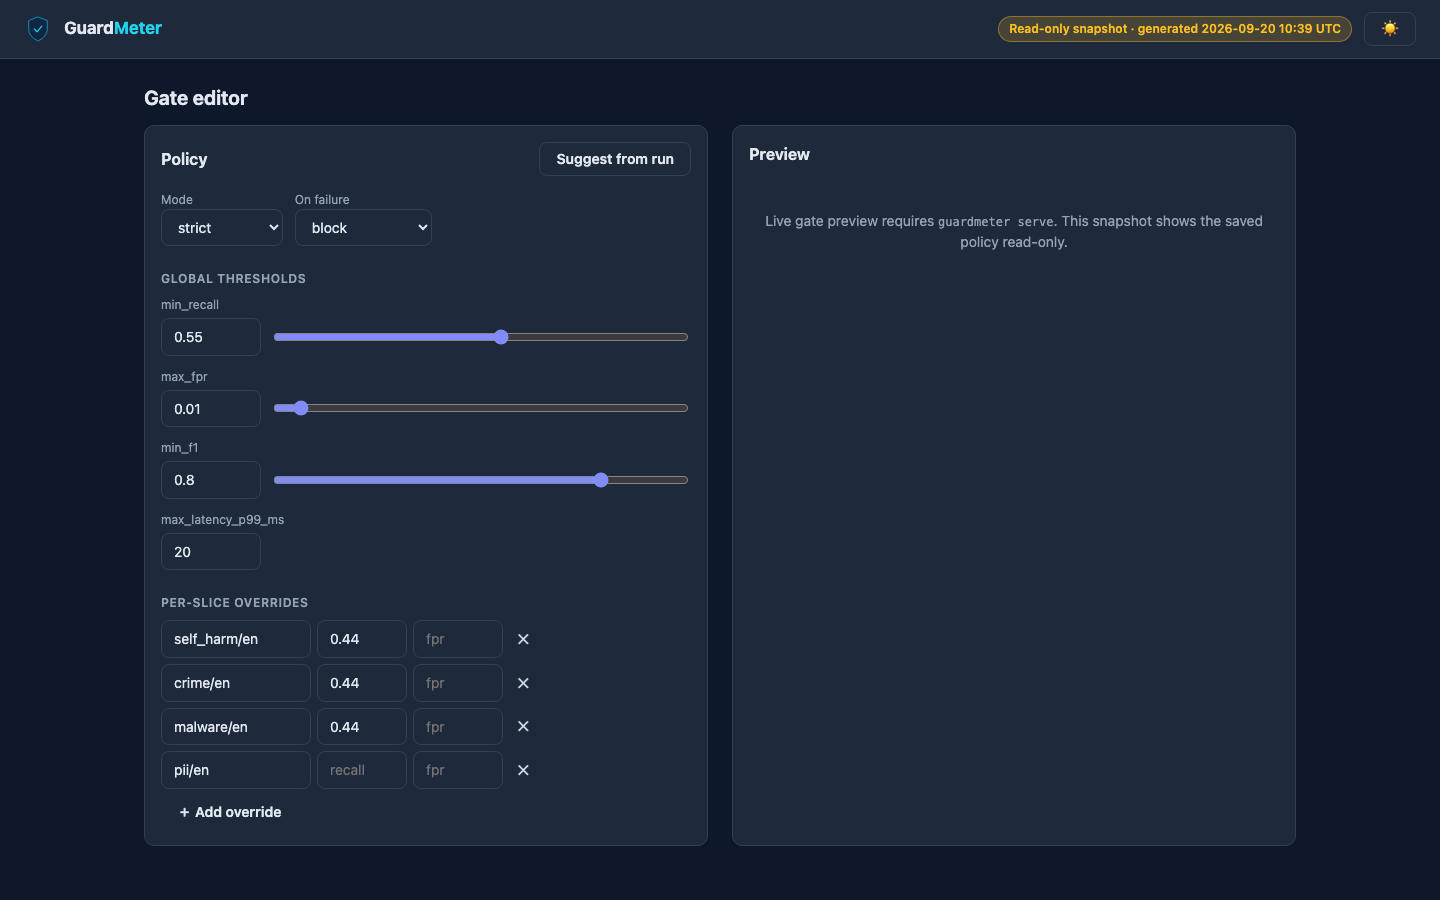
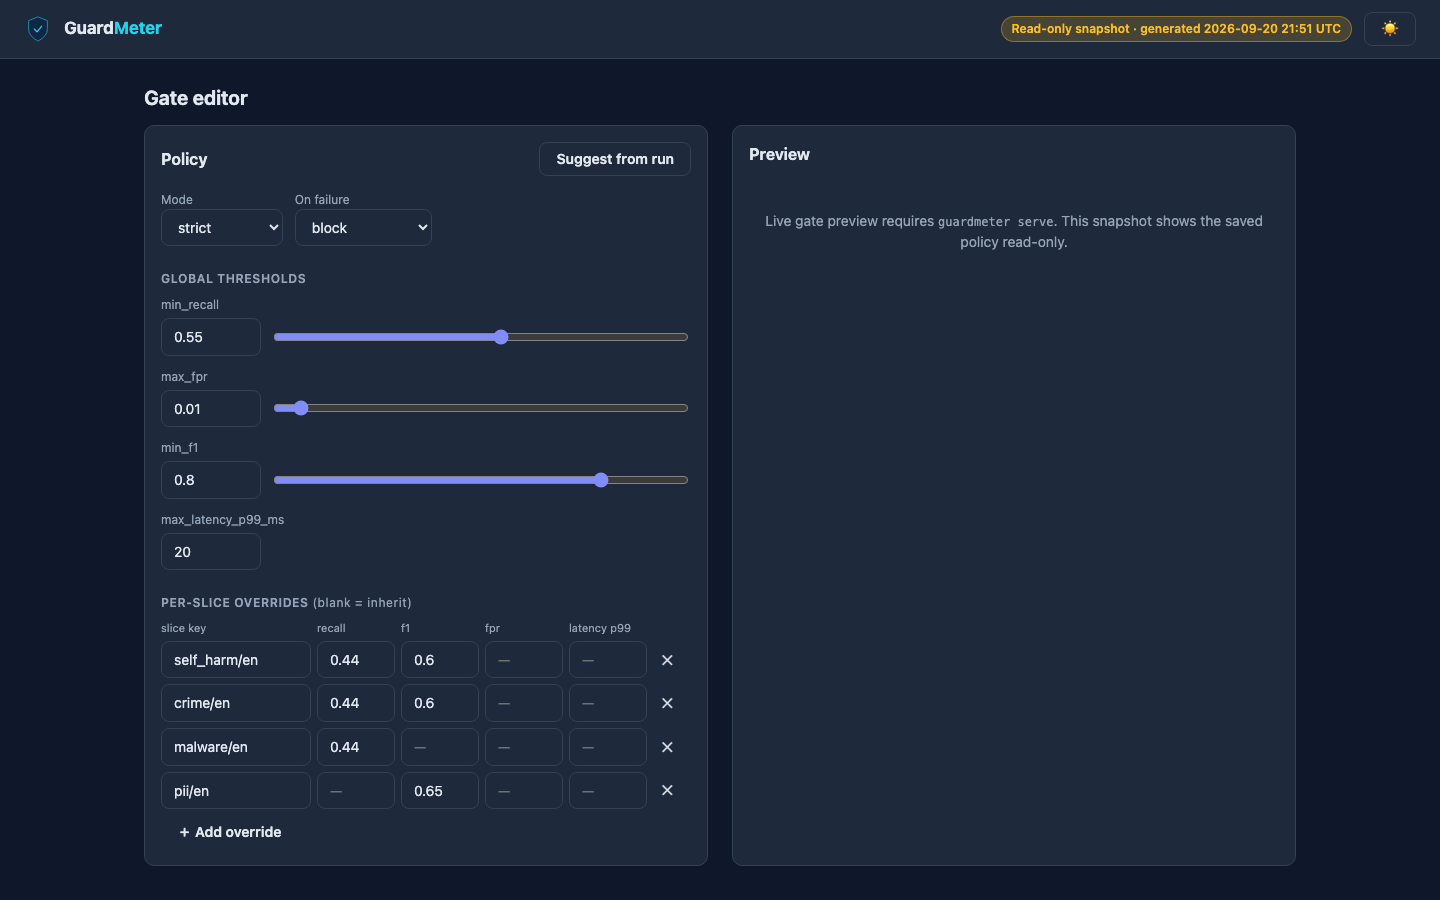
release: v0.6.1
Bump to 0.6.1 and refresh the gate-editor and run screenshots. 0.6.1 is a
polish release: gate editor renders every threshold field (no min_f1 loss),
undefined slice metrics show as n/a, latency histogram colour + sub-ms
formatting, and KPI deltas show 'no change' instead of '—'.

diff --git a/guardmeter/__init__.py b/guardmeter/__init__.py
@@ -1,3 +1,3 @@
 """GuardMeter — AI safety guard evaluation framework."""
 
-__version__ = "0.6.0"
+__version__ = "0.6.1"

diff --git a/CHANGELOG.md b/CHANGELOG.md
@@ -1,5 +1,20 @@
 # Changelog
 
+## [0.6.1] - 2026-09-20
+### Fixed
+- **Gate editor** no longer hides (and could drop) per-slice `min_f1` and
+  `max_latency_p99_ms`: every threshold field is rendered (blank = inherit),
+  unknown fields are preserved with a warning, and a round-trip test asserts
+  the shipped `gate.json` survives load → save intact.
+- Undefined slice metrics render as **n/a**, not `0` — recall for slices with
+  no positives, FPR for slices with no negatives — in the run heatmap, the
+  Compare delta heatmap, and the attack-type chart.
+- Latency histogram uses the accent colour (Chart.js can't read CSS vars);
+  sub-millisecond latencies now format with useful precision across the KPI
+  card, run cards, Try table, and CLI `try`.
+- KPI deltas show `0.0000 · no change` when a previous run exists and the
+  metric is unchanged, reserving `—` for "no previous run".
+
 ## [0.6.0] - 2026-09-20
 ### Added
 - **The dashboard is now a local app** served by `guardmeter serve`: a

diff --git a/README.md b/README.md
@@ -160,7 +160,7 @@ Markdown table to the job summary, uploads the HTML report as an artifact, and
 fails the job when the gate fails. Pin it to a release tag:
 
 ```yaml
-- uses: samvardani/guardmeter@v0.6.0
+- uses: samvardani/guardmeter@v0.6.1
   with:
     candidate: regex-enhanced
     dataset: dataset/sample.csv
